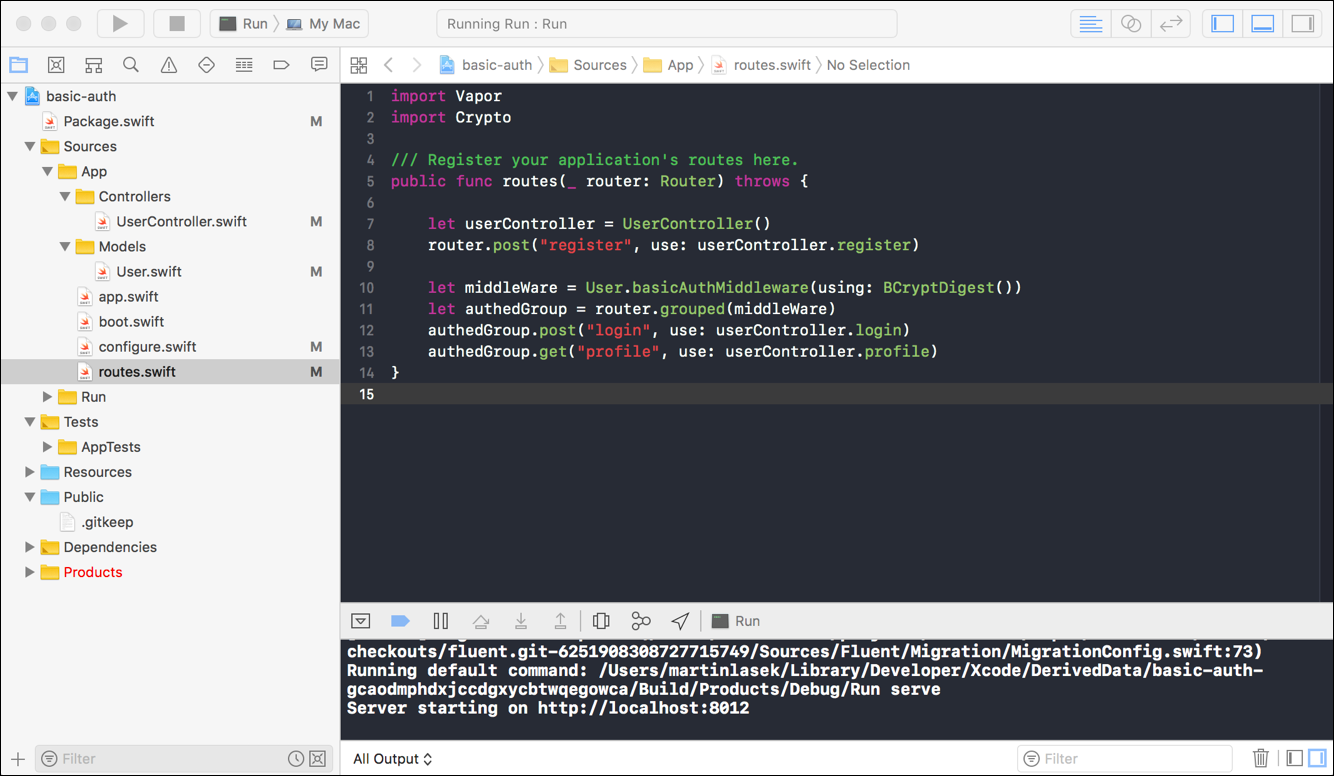
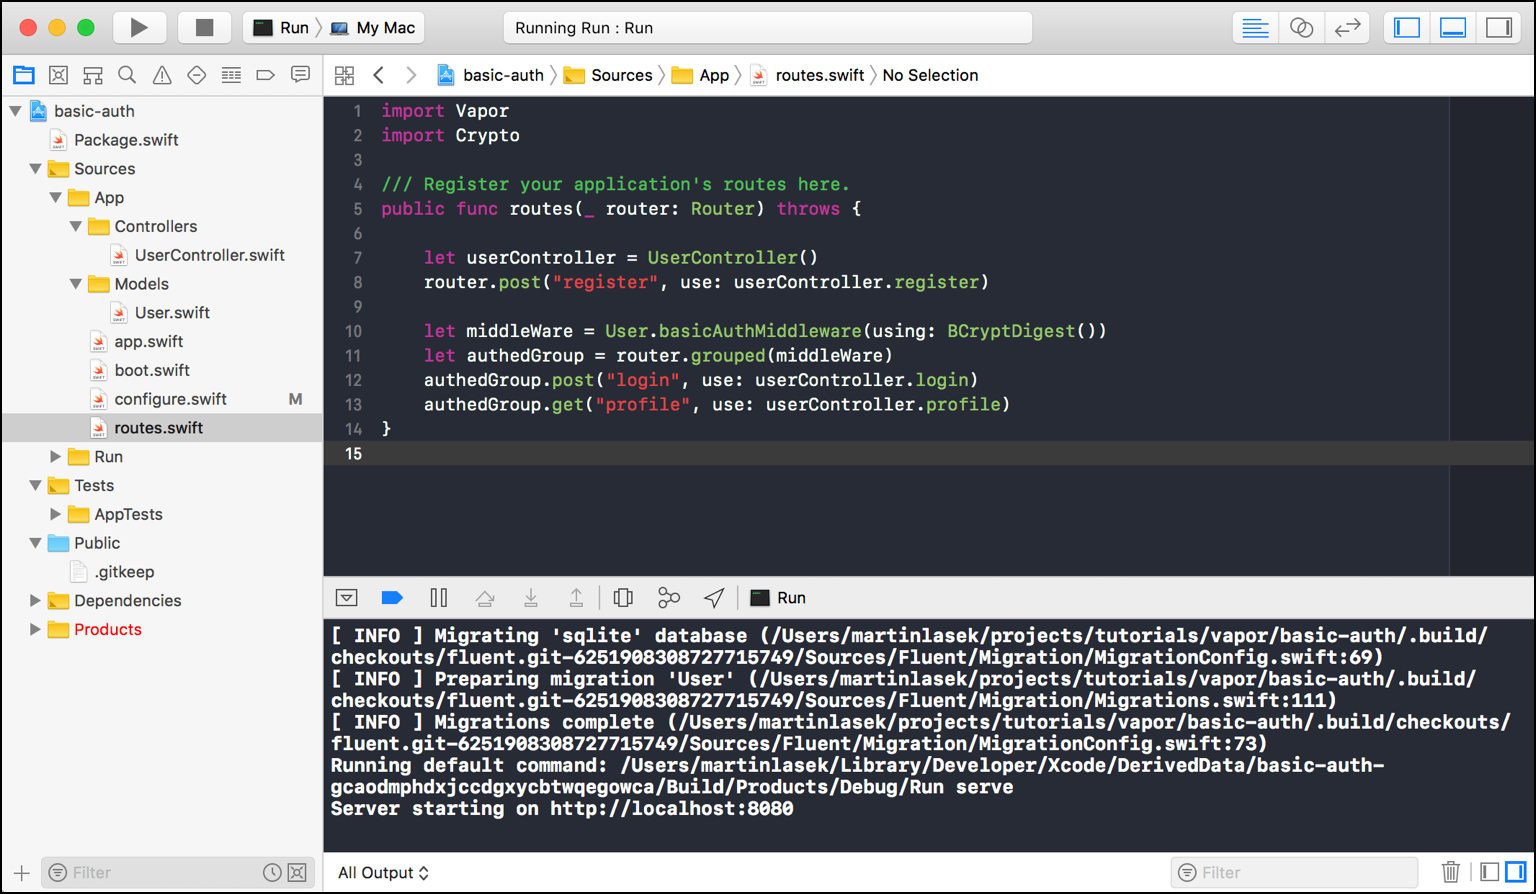
updated port configuration

Changed region(s): [[0.0, 0.0, 1.0, 1.0], [0.9835, 0.0928, 1.0, 0.1237]]

diff --git a/Sources/App/configure.swift b/Sources/App/configure.swift
@@ -15,9 +15,6 @@ public func configure(
     try routes(router)
     services.register(router, as: Router.self)
 
-    let myService = NIOServerConfig.default(port: 8012)
-    services.register(myService)
-
     let leafProvider = LeafProvider()
     try services.register(leafProvider)
     try services.register(FluentSQLiteProvider())
